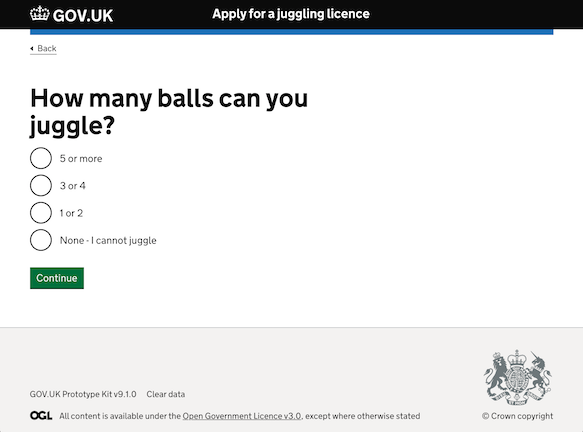
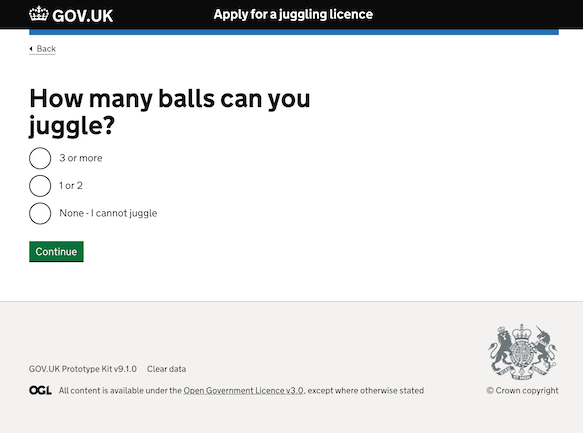
v9.4.0

diff --git a/docs/views/examples/branching/index.html b/docs/views/examples/branching/index.html
@@ -45,7 +45,7 @@
               </label>
             </div>
             <div class="govuk-radios__item">
-              <input class="govuk-radios__input" id="over18-no" name="over-18" type="radio" value="false">
+              <input class="govuk-radios__input" id="over-18-no" name="over-18" type="radio" value="false">
               <label class="govuk-label govuk-radios__label" for="over-18-no">
                 No
               </label>

diff --git a/server.js b/server.js
@@ -1,4 +1,5 @@
 // Core dependencies
+const fs = require('fs')
 const path = require('path')
 
 // NPM dependencies
@@ -31,11 +32,9 @@ var useV6 = false
 var v6App
 var v6Routes
 
-try {
+if (fs.existsSync('./app/v6/routes.js')) {
   v6Routes = require('./app/v6/routes.js')
   useV6 = true
-} catch (e) {
-  // No routes.js in app/v6 so we can continue with useV6 false
 }
 
 const app = express()

diff --git a/docs/documentation/make-first-prototype/let-user-change-answers.md b/docs/documentation/make-first-prototype/let-user-change-answers.md
@@ -2,7 +2,7 @@
 
 ## Make the ‘Change’ links work
 
-Make the **Change** links on the ‘Confirmation’ page work by adding the right links.
+Make the **Change** links on the ‘Check your answers’ page work by adding the right links.
 
 1. In the the `<a>` tag under `{{ data['how-many-balls'] }}`, change the href attribute from `#` to `/juggling-balls`
 2. In the the `<a>` tag under `{{ data['most-impressive-trick'] }}`, change the href attribute from `#` to `/juggling-trick`
@@ -15,18 +15,17 @@ Add Nunjucks code to show the user's answer in a radios or checkbox component.
 
 Open the `juggling-balls.html` file in your `app/views` folder, and add:
 
-- `{{ checked("how-many-balls", "5 or more") }}` inside the first `<input>` tag
-- `{{ checked("how-many-balls", "3 or 4") }}` inside the second `<input>` tag
-- `{{ checked("how-many-balls", "1 or 2") }}` inside the third `<input>` tag
-- `{{ checked("how-many-balls", "None - I cannot juggle") }}` inside the fourth `<input>` tag
+- `{{ checked("how-many-balls", "3 or more") }}` inside the first `<input>` tag
+- `{{ checked("how-many-balls", "1 or 2") }}` inside the second `<input>` tag
+- `{{ checked("how-many-balls", "None - I cannot juggle") }}` inside the third `<input>` tag
 
 For example your first input tag should now be:
 
 ```html
-<input id="radio-1" type="radio" name="juggling-balls" value="5 or more” {{ checked("juggling-balls", "3 or more") }} >
+<input id="radio-1" type="radio" name="juggling-balls" value="3 or more” {{ checked("juggling-balls", "3 or more") }} >
 ```
 
-Make sure the spelling is exactly the same as the 4 `value` attributes you added when you [created your question pages](create-pages).
+Make sure the spelling is exactly the same as the 3 `value` attributes you added when you [created your question pages](create-pages).
 
 Go to [http://localhost:3000/juggling-balls](http://localhost:3000/juggling-balls) and check the journey works by selecting an answer, continuing to the next page, then going back.
 
@@ -36,7 +35,7 @@ To show the user's answer in a `textarea`, add the same Nunjucks code you [added
 
 1. Open the `juggling-trick.html` file in your `app/views` folder.
 2. Find the `<textarea>` you added earlier.
-3. Add `{{ data['name-of-trick'] }}` between the `<textarea>` and `</textarea>` tags. Do not add any space or line breaks.
+3. Add `{{ data['most-impressive-trick'] }}` between the `<textarea>` and `</textarea>` tags. Do not add any space or line breaks.
 
 Go to [http://localhost:3000/juggling-trick](http://localhost:3000/juggling-trick) and check it works by filling in an answer, continuing to the next page, going back, then refreshing your browser.
 

diff --git a/docs/documentation/make-first-prototype/add-questions.md b/docs/documentation/make-first-prototype/add-questions.md
@@ -8,16 +8,16 @@ Copy the code from the [GOV.UK Design System](https://design-system.service.gov.
 2. Select **HTML**, then select **Copy code**.
 3. Open `juggling-balls.html` in your `app/views` folder.
 4. Replace the 2 example `<p>...</p>` paragraphs with the HTML code you copied.
-5. Select the `<h1>` line you edited when you [created the page](create-pages#question-pages), then cut and paste it so it replaces the `<h1>` line in the copied code.
+5. Remove the fourth radio option `<div>...</div>` block, because we only need 3 radio options.
+6. Select the `<h1>` line you edited when you [created the page](create-pages#question-pages), then cut and paste it so it replaces the `<h1>` line in the copied code.
 
-Replace the text in the 4 `<label>` tags with:
+Replace the text in the 3 `<label>` tags with:
 
-- `5 or more`
-- `3 or 4`
+- `3 or more`
 - `1 or 2`
 - `None - I cannot juggle`
 
-Change the value of the 4 `value` attributes so they match the text in the `label` tags.
+Change the value of the 3 `value` attributes so they match the text in the `label` tags.
 
 Change all instances of `where-do-you-live` to `how-many-balls`.
 

diff --git a/docs/documentation/make-first-prototype/show-users-answers.md b/docs/documentation/make-first-prototype/show-users-answers.md
@@ -25,7 +25,7 @@ Change `INPUT-ATTRIBUTE-NAME` to the value you used in the [`name` attribute on 
 1. Open the `check-your-answers.html` file in your `app/views` folder.
 2. Find the `<dt>` tag that contains the text `Name`.
 3. Change `Name` to `Number of balls you can juggle`.
-4. In the `<dd>` tag on the next line, change `Sarah Philips` to `{{ data['how-many-balls’] }}`.
+4. In the `<dd>` tag on the next line, change `Sarah Philips` to `{{ data['how-many-balls'] }}`.
 
 You must also change `<span class="govuk-visually-hidden"> name</span>` to `<span class="govuk-visually-hidden"> number of balls you can juggle</span>`.
 
